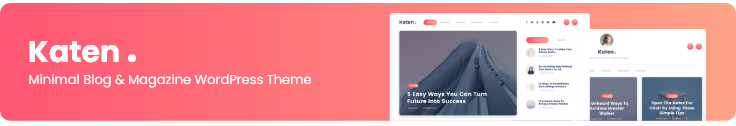
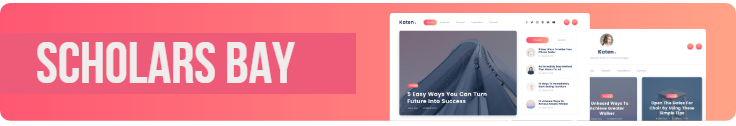
changed in the main

Changed region(s): [[0.0312, 0.2619, 0.5, 0.7619]]

diff --git a/contact.html b/contact.html
@@ -153,7 +153,7 @@
                         <span class="icon icon-phone"></span>
                         <div class="details">
                             <h3 class="mb-0 mt-0">Phone</h3>
-                            <p class="mb-0">+1-202-555-0135</p>
+                            <p class="mb-0">+91-9773490886</p>
                         </div>
                     </div>
                     <div class="spacer d-md-none d-lg-none" data-height="30"></div>
@@ -165,7 +165,7 @@
                         <span class="icon icon-envelope-open"></span>
                         <div class="details">
                             <h3 class="mb-0 mt-0">E-Mail</h3>
-                            <p class="mb-0">hello@example.com</p>
+                            <p class="mb-0">ScholarsBay@gmail.com</p>
                         </div>
                     </div>
                     <div class="spacer d-md-none d-lg-none" data-height="30"></div>
@@ -177,7 +177,7 @@
                         <span class="icon icon-map"></span>
                         <div class="details">
                             <h3 class="mb-0 mt-0">Location</h3>
-                            <p class="mb-0">California, USA</p>
+                            <p class="mb-0">Tambaram,Chennai</p>
                         </div>
                     </div>
                 </div>
@@ -242,7 +242,7 @@
 	<div class="instagram">
 		<div class="container-xl">
 			<!-- button -->
-			<a href="#" class="btn btn-default btn-instagram">@Katen on Instagram</a>
+			<a href="#" class="btn btn-default btn-instagram">@Scholars Bay on Instagram</a>
 			<!-- images -->
 			<div class="instagram-feed d-flex flex-wrap">
 				<div class="insta-item col-sm-2 col-6 col-md-2">
@@ -286,7 +286,7 @@
 				<div class="row d-flex align-items-center gy-4">
 					<!-- copyright text -->
 					<div class="col-md-4">
-						<span class="copyright">© 2021 Katen. Template by ThemeGer.</span>
+						<span class="copyright">© 2021 Scholars Bay.All rights Reserved.</span>
 					</div>
 
 					<!-- social icons -->

diff --git a/about.html b/about.html
@@ -393,7 +393,7 @@
 	<div class="instagram">
 		<div class="container-xl">
 			<!-- button -->
-			<a href="#" class="btn btn-default btn-instagram">@Katen on Instagram</a>
+			<a href="#" class="btn btn-default btn-instagram">@Scholars Bay on Instagram</a>
 			<!-- images -->
 			<div class="instagram-feed d-flex flex-wrap">
 				<div class="insta-item col-sm-2 col-6 col-md-2">
@@ -437,7 +437,7 @@
 				<div class="row d-flex align-items-center gy-4">
 					<!-- copyright text -->
 					<div class="col-md-4">
-						<span class="copyright">© 2021 Katen. Template by ThemeGer.</span>
+						<span class="copyright">© 2021 Scholars Bay.All Rights Reserved.</span>
 					</div>
 
 					<!-- social icons -->

diff --git a/category.html b/category.html
@@ -79,8 +79,8 @@
 				<div class="col-md-4 col-sm-12 col-xs-12 text-center">
 				<!-- site logo -->
 					<a class="navbar-brand" href="personal.html"><img src="images/other/avatar-lg.png" alt="logo" /></a>
-					<a href="personal.html" class="d-block text-logo">Katen<span class="dot">.</span></a>
-					<span class="slogan d-block">Professional Writer & Personal Blogger</span>
+					<a href="personal.html" class="d-block text-logo">Scholar's Bay<span class="dot">.</span></a>
+					<span class="slogan d-block">Professional Writing & Blogging Site</span>
 				</div>
 
 				<div class="col-md-4 col-sm-12 col-xs-12">
